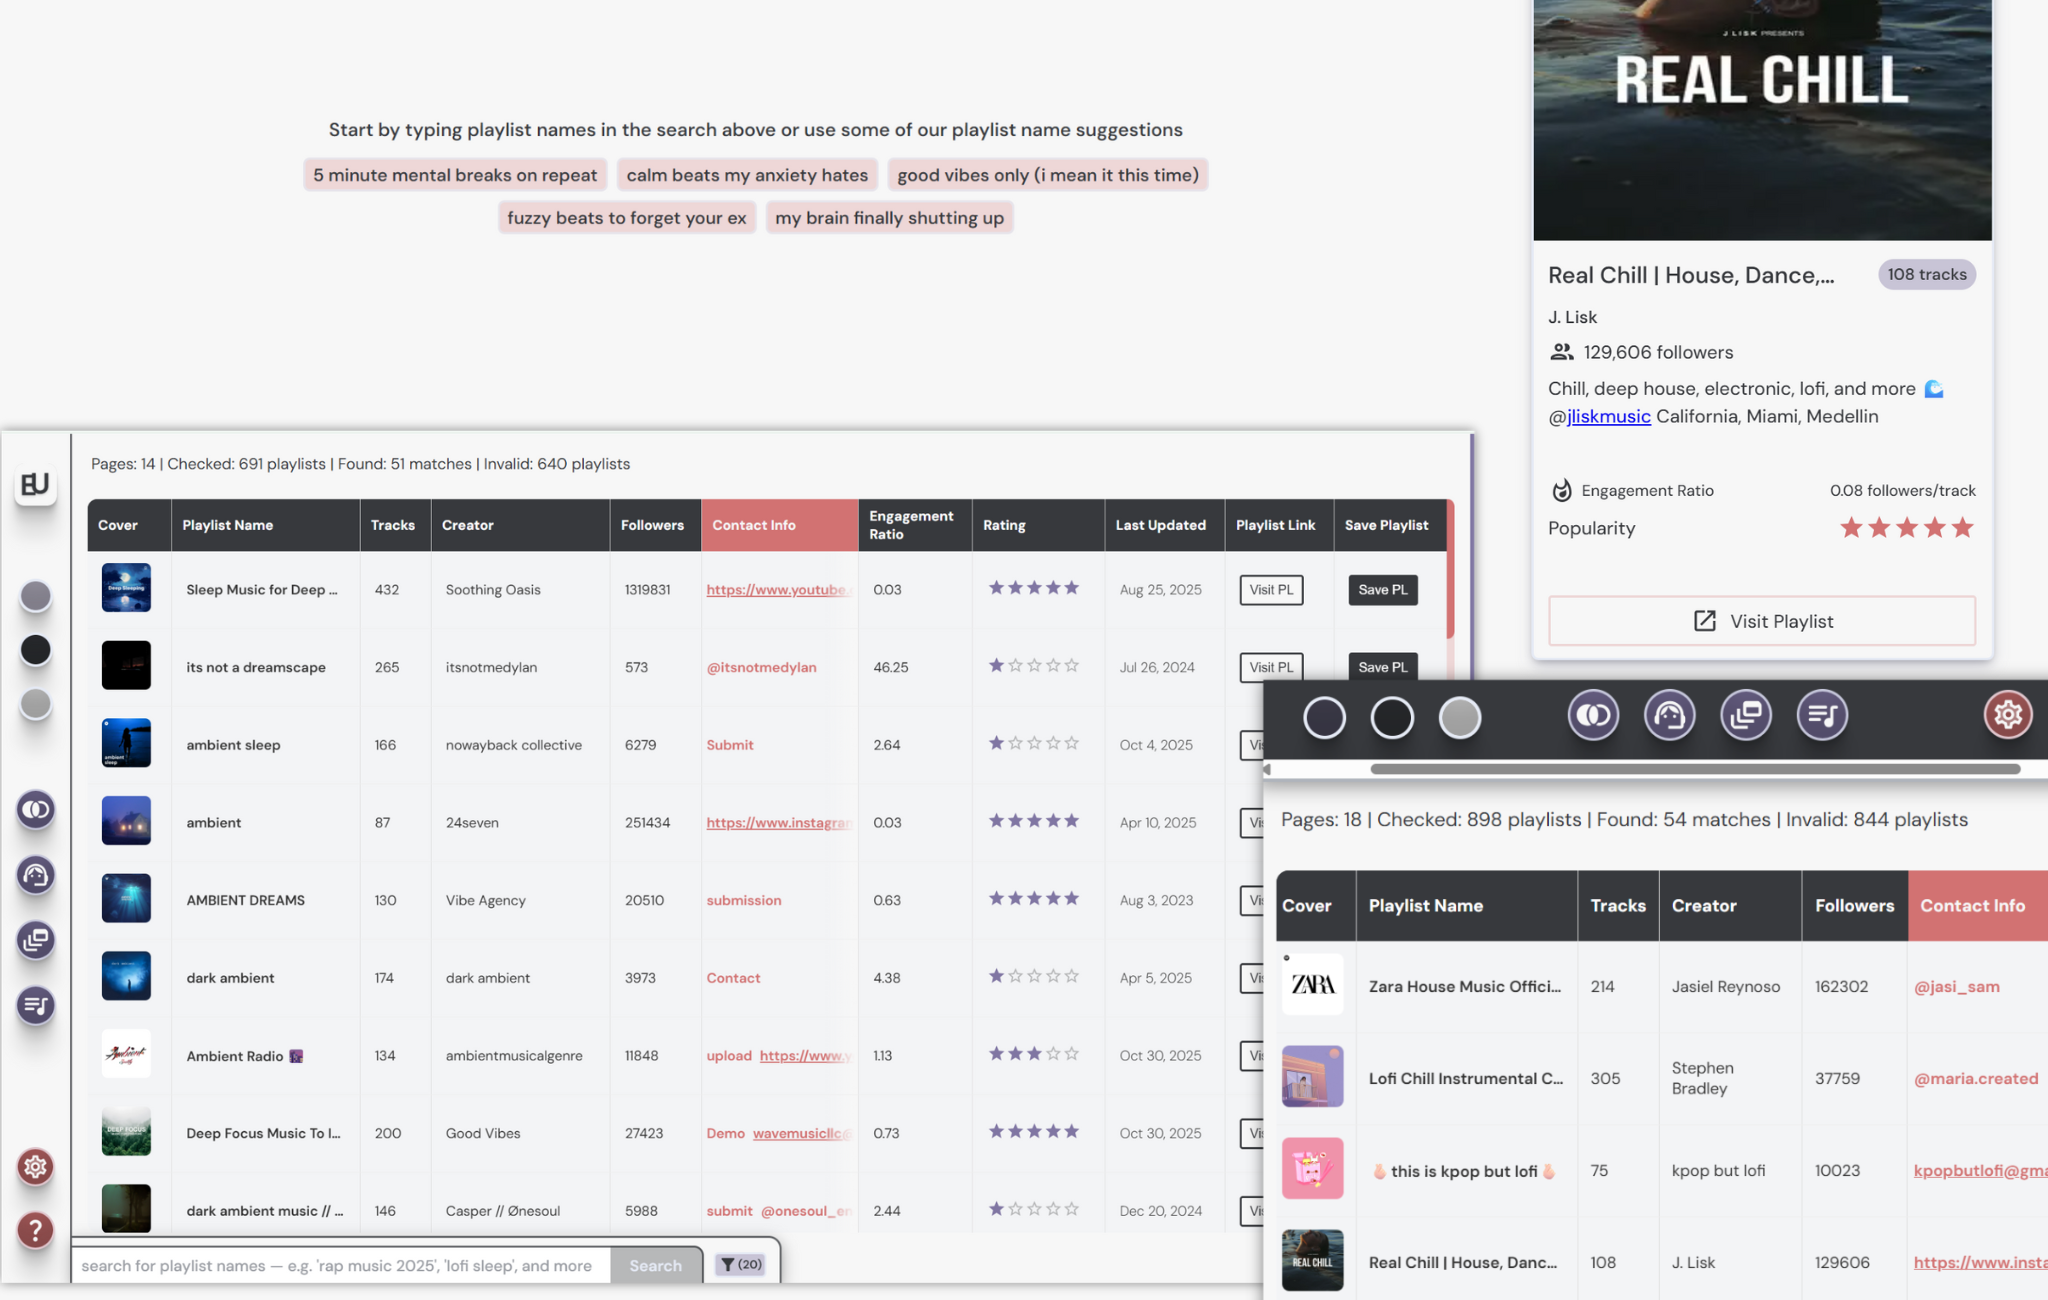
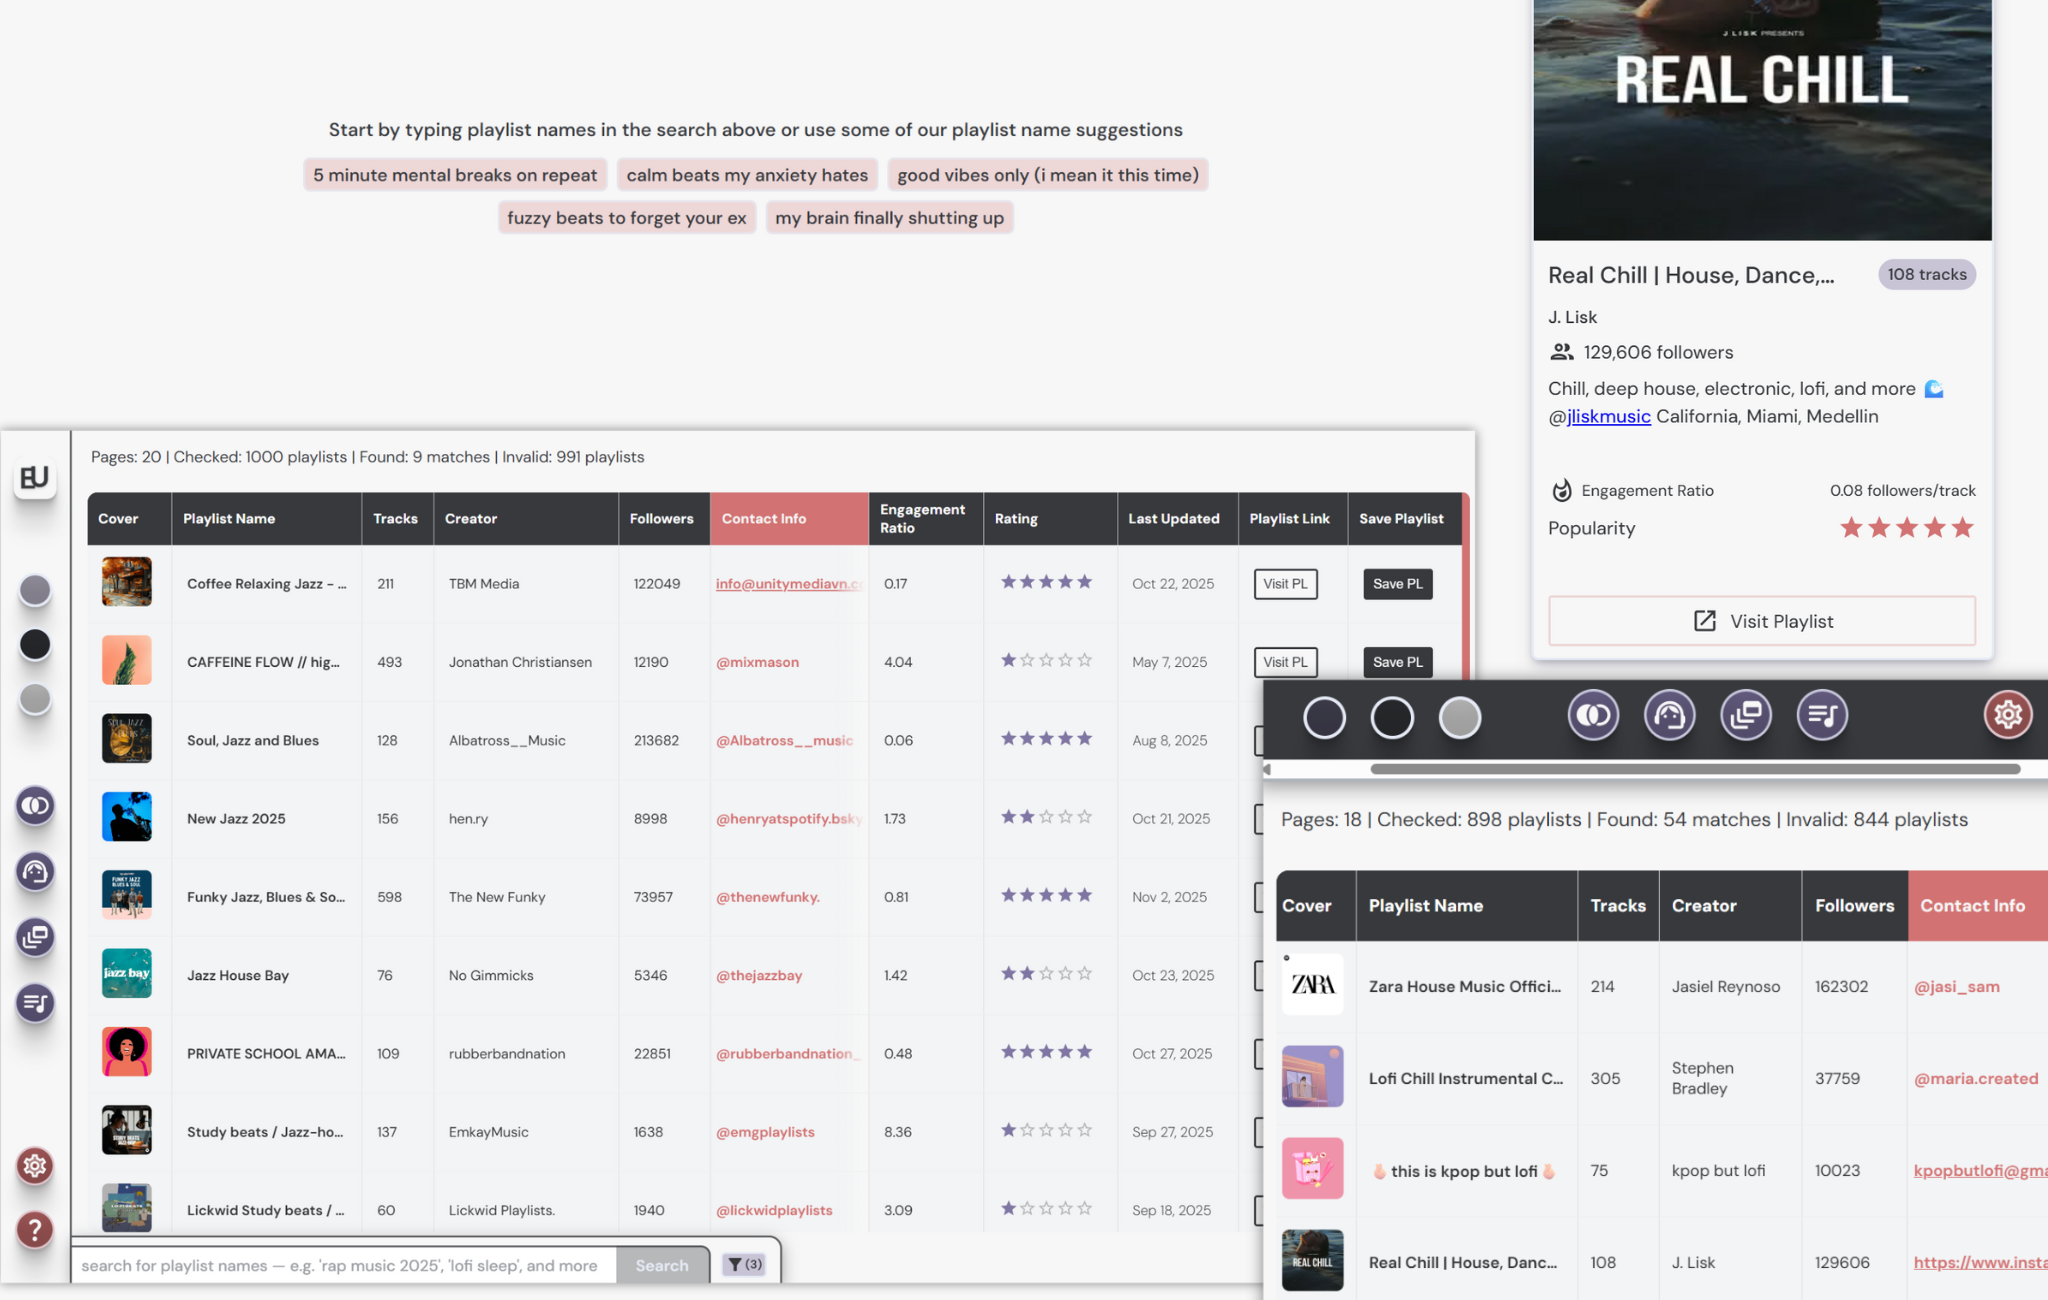
updated contact rendering regex

diff --git a/src/components/dashboardCmpts/playlistSearch/playlistSearch.tsx b/src/components/dashboardCmpts/playlistSearch/playlistSearch.tsx
@@ -78,12 +78,44 @@ export default function PlaylistSearch({
   const { data: session } = useSession()
   const subscriptionStatus = session?.user?.subscriptionType
 
-  // Create dynamic regex from selected keywords
+  // Create dynamic regex from selected keywords - FIXED VERSION
   const createDynamicRegex = () => {
-    if (filterReturn.length === 0) return null
-    const escapedKeywords = filterReturn.map((keyword) => keyword.replace(/[.*+?^${}()|[\]\\]/g, "\\$&"))
-    return new RegExp(escapedKeywords.join("|"), "i")
-  }
+    if (filterReturn.length === 0) return undefined;
+    
+    const patterns = filterReturn.map((keyword) => {
+      const escaped = keyword.replace(/[.*+?^${}()|[\]\\]/g, "\\$&");
+      
+      // For @ symbol, capture full email or social handle
+      if (keyword === '@') {
+        return '(?:@[\\w.-]+|[\\w.-]+@[\\w.-]+\\.[a-z]{2,})';
+      }
+      
+      // For email domains, capture full email
+      if (['gmail', 'outlook', 'yahoo'].includes(keyword.toLowerCase())) {
+        return `[\\w.-]+@[\\w.-]*${escaped}[\\w.-]*\\.[a-z]{2,}`;
+      }
+      
+      // For URLs/domains, capture full URL
+      if (keyword.includes('http') || keyword.includes('www') || keyword.includes('.com')) {
+        return 'https?://[^\\s<>"]+|www\\.[^\\s<>"]+';
+      }
+      
+      // For social platforms, capture handles or URLs
+      if (['instagram', 'twitter', 'facebook', 'discord', 'reddit'].includes(keyword.toLowerCase())) {
+        return `(?:@[\\w.]+|https?://(?:www\\.)?${escaped}[^\\s<>"]*|${escaped}[\\s:]+[@]?[\\w.]+)`;
+      }
+      
+      // For submission-related keywords, capture surrounding phrase
+      if (['submit', 'submission', 'demo', 'contact', 'send', 'upload', 'message', 'inbox', 'email'].some(k => keyword.toLowerCase().includes(k))) {
+        return `\\b\\w*${escaped}\\w*(?:[\\s:]+[\\w@.-]+)?`;
+      }
+      
+      // Default: capture word containing the keyword
+      return `\\b\\w*${escaped}\\w*\\b`;
+    });
+    
+    return new RegExp(patterns.join('|'), 'gi');
+  };
 
   useEffect(() => {
     const shuffled = [...playlistNames].sort(() => Math.random() - 0.5).slice(0, 5)
@@ -124,93 +156,58 @@ export default function PlaylistSearch({
     return false
   }
 
-  // const fetchPlaylistDetails = async (playlist: any, accessToken: string, selectedDate?: string) => {
-  //   if (!playlist?.id) return null
-
-  //   try {
-  //     const response = await axios.get(`https://api.spotify.com/v1/playlists/${playlist.id}`, {
-  //       headers: { Authorization: `Bearer ${accessToken}` },
-  //     })
-
-  //     const detail = response.data
-  //     const dynamicRegex = createDynamicRegex()
-
-      
-
-  //     if (
-  //       detail?.description &&
-  //       dynamicRegex &&
-  //       dynamicRegex.test(detail.description) &&
-  //       detail?.images?.length > 0 &&
-  //       detail?.owner?.display_name
-
-        
-  //     ) {
-  //       return detail
-  //     }
-      
-  //     return null
-
-
-  //   } catch (error) {
-  //     console.error(`Error fetching playlist ${playlist.id}:`, error)
-  //     return null
-  //   }
-  // }
-
   const fetchPlaylistDetails = async (playlist: any, accessToken: string, selectedDate?: string) => {
-  if (!playlist?.id) return null;
+    if (!playlist?.id) return null;
 
-  try {
-    const response = await axios.get(`https://api.spotify.com/v1/playlists/${playlist.id}`, {
-      headers: { Authorization: `Bearer ${accessToken}` },
-    });
-
-    const detail = response.data;
-    const dynamicRegex = createDynamicRegex();
-
-    // If no description match, skip early
-    if (
-      !detail?.description ||
-      !dynamicRegex ||
-      !dynamicRegex.test(detail.description) ||
-      !detail?.images?.length ||
-      !detail?.owner?.display_name
-    ) {
-      return null;
-    }
-
-    // Fetch latest added_at
-    const tracksResponse = await axios.get(
-      `https://api.spotify.com/v1/playlists/${playlist.id}/tracks?fields=items(added_at)&limit=1`,
-      {
+    try {
+      const response = await axios.get(`https://api.spotify.com/v1/playlists/${playlist.id}`, {
         headers: { Authorization: `Bearer ${accessToken}` },
-      }
-    );
+      });
 
-    const latestAddedAt = tracksResponse.data?.items?.[0]?.added_at || null;
+      const detail = response.data;
+      const dynamicRegex = createDynamicRegex();
 
-    // If user selected a date, filter out old playlists
-    if (selectedDate && latestAddedAt) {
-      const latestDate = new Date(latestAddedAt);
-      const selected = new Date(selectedDate);
-
-      if (latestDate < selected) {
-        // Skip playlists that haven’t been updated since selected date
+      // If no description match, skip early
+      if (
+        !detail?.description ||
+        !dynamicRegex ||
+        !dynamicRegex.test(detail.description) ||
+        !detail?.images?.length ||
+        !detail?.owner?.display_name
+      ) {
         return null;
       }
+
+      // Fetch latest added_at
+      const tracksResponse = await axios.get(
+        `https://api.spotify.com/v1/playlists/${playlist.id}/tracks?fields=items(added_at)&limit=1`,
+        {
+          headers: { Authorization: `Bearer ${accessToken}` },
+        }
+      );
+
+      const latestAddedAt = tracksResponse.data?.items?.[0]?.added_at || null;
+
+      // If user selected a date, filter out old playlists
+      if (selectedDate && latestAddedAt) {
+        const latestDate = new Date(latestAddedAt);
+        const selected = new Date(selectedDate);
+
+        if (latestDate < selected) {
+          // Skip playlists that haven't been updated since selected date
+          return null;
+        }
+      }
+
+      return {
+        ...detail,
+        latestAddedAt,
+      };
+    } catch (error) {
+      console.error(`Error fetching playlist ${playlist.id}:`, error);
+      return null;
     }
-
-    return {
-      ...detail,
-      latestAddedAt,
-    };
-  } catch (error) {
-    console.error(`Error fetching playlist ${playlist.id}:`, error);
-    return null;
-  }
-};
-
+  };
 
   const getPlaylist = async (event: React.FormEvent) => {
     event.preventDefault()
@@ -483,8 +480,6 @@ export default function PlaylistSearch({
                         >
                           No keywords selected. Add keywords above or reset to default.
                         </p>
-
-                        // 
                       ) : (
                         filterReturn.map((fR, index) => (
                           <div key={index} className="each-keyword-regex">
@@ -517,12 +512,10 @@ export default function PlaylistSearch({
                         />
                       </div>
                     </div>
-                  {/* //// */}
                   </div>
                 </div>
               ) : (
                 <div className="filter-regex" onClick={() => setRegexPopup(true)}>
-                  {/* <AddIcon style={{ width: "20px", height: "20px", color: "var(--textColor2)" }} /> */}
                   <FilterAltIcon style={{ width: "20px", height: "20px", color: "var(--textColor2)" }} />
                   <span style={{ fontSize: "12px", color: "var(--textColor2)", fontWeight: '600' }}>
                     ({filterReturn.length})
@@ -541,11 +534,9 @@ export default function PlaylistSearch({
                     (n/a)
                   </span>
                 </div>
-
                 </Tooltip>
               </div>
             )}
-            {/*  */}
           </div>
 
           {/* Search Stats */}
@@ -558,14 +549,6 @@ export default function PlaylistSearch({
               </p>
             </div>
           )}
-
-          {/* {!loading ? (
-            <div className="minor-text-before-search-stats">
-              {`Hello, ${session?.user?.name}`}
-            </div>
-          ) : (
-            null
-          )} */}
 
           {/* Loading Indicator */}
           {loading && (
@@ -648,49 +631,42 @@ export default function PlaylistSearch({
               </div>
             )}
 
-            {/* {playlistData.map((playlist, index) => {
-              // Skip if critical data is missing
-              if (!playlist?.id || !playlist?.name || !playlist?.images?.[0]?.url) {
-                return null
-              } */}
+            <PlaylistGrid 
+              playlists={playlistData
+                .filter(playlist => playlist?.id && playlist?.name && playlist?.images?.[0]?.url)
+                // remove duplicates by id before mapping
+                .filter((playlist, index, self) =>
+                  index === self.findIndex(p => p.id === playlist.id)
+                )
+                .map((playlist, index) => {
+                  const followers = playlist?.followers?.total || 0;
+                  const tracks = playlist?.tracks?.total || 0;
+                  const engagementRatio = followers > 0 ? ((tracks / followers) * 100).toFixed(2) : "N/A";
+                  const popularity = followers > 0 ? Math.min(5, Math.max(0, Math.log10(followers) - 1) + Math.min(0.5, tracks / 100)) : 0;
 
-              <PlaylistGrid 
-                playlists={playlistData
-                  .filter(playlist => playlist?.id && playlist?.name && playlist?.images?.[0]?.url)
-                  // remove duplicates by id before mapping
-                  .filter((playlist, index, self) =>
-                    index === self.findIndex(p => p.id === playlist.id)
-                  )
-                  .map((playlist, index) => {
-                    const followers = playlist?.followers?.total || 0;
-                    const tracks = playlist?.tracks?.total || 0;
-                    const engagementRatio = followers > 0 ? ((tracks / followers) * 100).toFixed(2) : "N/A";
-                    const popularity = followers > 0 ? Math.min(5, Math.max(0, Math.log10(followers) - 1) + Math.min(0.5, tracks / 100)) : 0;
-
-                    return {
-                      id: `${playlist.id}-${index}`,
-                      imageUrl: playlist?.images?.[0]?.url || "/placeholder-image.jpg",
-                      playlistName: playlist?.name || "Unnamed Playlist",
-                      curatorName: playlist.owner?.display_name || "Unknown",
-                      trackCount: tracks || "N/A",
-                      followers: followers || "N/A",
-                      description: playlist?.description || "No description available",
-                      engagementRatio: parseFloat(engagementRatio),
-                      popularity: popularity,
-                      playlistLink: `https://open.spotify.com/playlist/${playlist?.id}`,
-                      showStoreButton: subscriptionStatus === "Premium",
-                      storePlaylistButton: () => handleStoringPlaylists(playlist),
-                      onClickWord: (word: string) => handleWordClick(word, playlist.id),
-                      copied: isCopied(playlist.id).toString(),
-                      lastUpdated: subscriptionStatus === "Premium" ? playlist.latestAddedAt : null,
-                    };
-                  })}
-                />
-
-                     
+                  return {
+                    id: `${playlist.id}-${index}`,
+                    imageUrl: playlist?.images?.[0]?.url || "/placeholder-image.jpg",
+                    playlistName: playlist?.name || "Unnamed Playlist",
+                    curatorName: playlist.owner?.display_name || "Unknown",
+                    trackCount: tracks || "N/A",
+                    followers: followers || "N/A",
+                    description: playlist?.description || "No description available",
+                    engagementRatio: parseFloat(engagementRatio),
+                    popularity: popularity,
+                    playlistLink: `https://open.spotify.com/playlist/${playlist?.id}`,
+                    showStoreButton: subscriptionStatus === "Premium",
+                    storePlaylistButton: () => handleStoringPlaylists(playlist),
+                    onClickWord: (word: string) => handleWordClick(word, playlist.id),
+                    copied: isCopied(playlist.id).toString(),
+                    lastUpdated: subscriptionStatus === "Premium" ? playlist.latestAddedAt : null,
+                  };
+                })}
+              acceptDynamicRegex={createDynamicRegex()}
+            />
           </div>
         )}
       </form>
     </div>
   )
-  }
+}

diff --git a/src/components/dashboardCmpts/playlistCards/playlist-grid.tsx b/src/components/dashboardCmpts/playlistCards/playlist-grid.tsx
@@ -26,9 +26,10 @@ interface Playlist {
 
 interface PlaylistGridProps {
   playlists: Playlist[];
+  acceptDynamicRegex?: RegExp; 
 }
 
-export default function PlaylistGrid({ playlists = [] }: PlaylistGridProps) {
+export default function PlaylistGrid({ playlists = [], acceptDynamicRegex }: PlaylistGridProps) {
   const [copiedItem, setCopiedItem] = useState<string | null>(null);
   const [fetchSavedPlaylists, setFetchSavedPlaylists] = useState<any[]>([]);
   const [savingPlaylistId, setSavingPlaylistId] = useState<string | null>(null);
@@ -48,8 +49,7 @@ export default function PlaylistGrid({ playlists = [] }: PlaylistGridProps) {
   }, []);
 
   // Detect potential contact info
-  const contactRegex =
-    /(https?:\/\/[^\s]+|[a-zA-Z0-9._%+-]+@[a-zA-Z0-9.-]+\.[a-z]{2,}|instagram\.com\/\S+|twitter\.com\/\S+|discord\.gg\/\S+|reddit\.com\/\S+|facebook\.com\/\S+|@[\w._-]+|gmail|outlook|yahoo|contact|submit|submission|send\s?(your|ur)?\s?track|demo|upload)/gi;
+  const contactRegex = acceptDynamicRegex; 
 
   const processDescription = (description?: string) => {
     if (!description)
